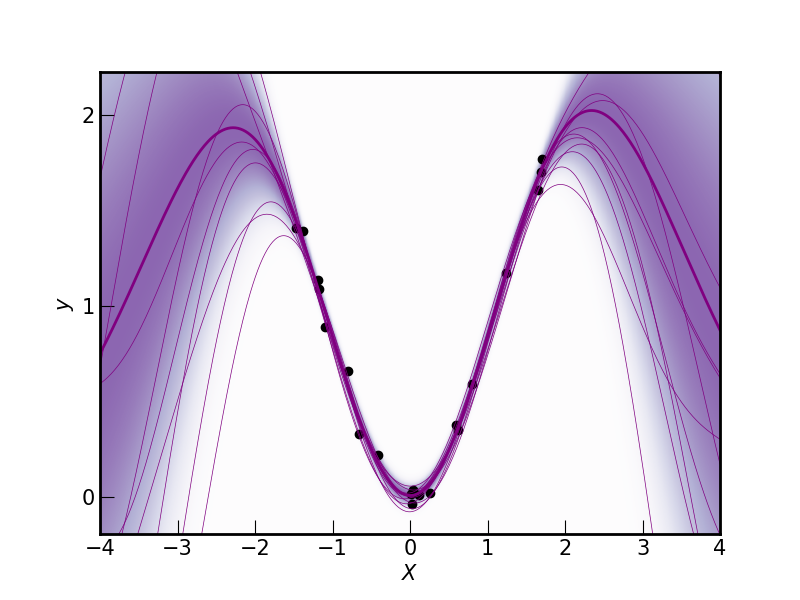
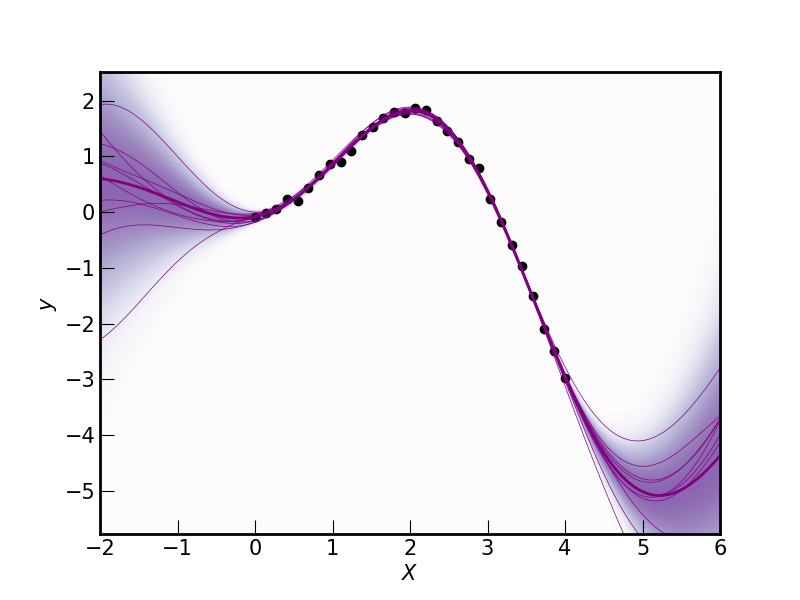
minor bug fixes

diff --git a/src/gpr/gaussian_process.py b/src/gpr/gaussian_process.py
@@ -1,18 +1,10 @@
-# import os
-# import sys
-
-# SCRIPT_DIR = os.path.abspath(__file__)
-# sys.path.append(os.path.dirname(SCRIPT_DIR))
-
 import numpy as np
 import scipy.optimize
 from numpy.random import randn
 import matplotlib.pyplot as plt
 from operator import itemgetter
-from src.utils_gpr.utils import data_from_func, save_fig
+from src.utils_gpr.utils import save_fig
 from matplotlib.ticker import MaxNLocator
-from src.kernels.rbf import RBFKernel
-from input.testfuncs_1d import f1
 from scipy.linalg import cho_solve, cholesky, solve_triangular
 
 
@@ -191,10 +183,11 @@ class GP:
         else:
             return loglik
 
-    def plot_samples(self, nsamples):
+    def plot_samples(self, nsamples, save_png=False):
         """
         Plot samples with GP Model
 
+        :param save_png:
         :param nsamples: number of samples
         :return: None
         """
@@ -202,9 +195,6 @@ class GP:
         noise = 0.1
 
         K = self.kernel(self.X_train)
-
-        # prior samples:
-        prior_samples = cholesky(K + self.alpha_ * np.eye(len(self.X_train))) @ randn(len(self.X_train), nsamples)
 
         # plot
         fig, ax = plt.subplots(1, 1, figsize=(8, 6))
@@ -215,14 +205,23 @@ class GP:
         ax.tick_params(direction="in", labelsize=15, length=10, width=0.8, colors='k')
         for edge in ["top", "bottom", "left", "right"]:
             ax.spines[edge].set_linewidth(2.0)
-        print(self.X_train)
-        print(self.y_train)
-        
-        plt.plot(self.X_train, self.y_train, "*")
-        plt.plot(self.X_train, prior_samples + noise * randn(self.n, nsamples), ".")
 
+        # Sort the data by the x-axis
+        sorted_indices = np.argsort(self.X_train)
+        X_train_sorted = self.X_train[sorted_indices]
+        y_train_sorted = np.array(self.y_train)[sorted_indices]
+        prior_samples = cholesky(K + self.alpha_ * np.eye(len(self.X_train))) @ randn(len(self.X_train), nsamples)
+        n = X_train_sorted.shape[0]
+        plt.plot(X_train_sorted, y_train_sorted, ".-", label="Training Data")
+        plt.plot(X_train_sorted, prior_samples + noise * randn(n, nsamples), ".-", alpha=0.3)
+        # plt.plot(X_train_sorted, prior_samples + self.alpha_ * randn(n, nsamples), ".-")
+        delta = (max(self.y_train)-min(self.y_train))/5.0
+        ax.set_ylim([min(self.y_train)-delta, max(self.y_train)+delta])
+
+        plt.legend()
         # save sample plots
-        save_fig("samples")
+        if save_png:
+            save_fig("samples")
 
     def plot_gp(self, X, mu, cov, post=False):
         delta = 1.96
@@ -257,40 +256,3 @@ class GP:
             save_fig("posterior")
         else:
             save_fig("prior")
-
-
-if __name__ == "__main__":
-
-    # fix random seed for reproducibility test
-    # np.random.seed(42)
-
-    # choose function
-    X_train, X_test, y_train = data_from_func(f=f1, N=20, M=500, xx=[-2.0, 2.0, -4.0, 4.0], noise=0.1)
-    # X_train, X_test, y_train = data_from_func(f=f6, N=500, M=500, xx=[0.0, 10.0, 0.0, 20.0], noise=0.1)
-
-    # choose kernel
-    kernel1 = RBFKernel(theta=[2.0, 100.0]) * PeriodicKernel(theta=[1.0, 1.0, 1.0])
-    kernel2 = LinearKernel(theta=[1.0, 1.0, 1.0])
-    kernel3 = RBFKernel(theta=[50.0, 50.0])
-    kernel4 = RBFKernel(theta=[0.1, 0.1])
-    kernel = kernel1 + kernel2 + kernel3 + kernel4
-    print(kernel)
-
-    # noise
-    eps = 0.1
-
-    # create GP model
-    model = GP(kernel=kernel, optimizer="fmin_l_bfgs_b", alpha_=eps ** 2, n_restarts_optimizer=2)
-
-    # fit
-    model.fit(X_train, y_train)
-
-    # predict
-    y_mean, y_cov = model.predict(X_test)
-
-    # plot prior
-    model.plot_gp(X=X_test, mu=np.zeros(len(X_test)), cov=model.kernel(X_test))
-    # plot posterior
-    model.plot_gp(X=X_test, mu=y_mean, cov=y_cov, post=True)
-    # plot samples
-    model.plot_samples(2)

diff --git a/examples/example_gpr.py b/examples/example_gpr.py
@@ -1,11 +1,15 @@
 from src.gpr.gaussian_process import GP
 from src.kernels.rbf import RBFKernel
+from src.kernels.linear import LinearKernel
+from src.kernels.periodic import PeriodicKernel
 from src.utils_gpr.utils import data_from_func
-from input.testfuncs_1d import f1
+from input.testfuncs_1d import (oscillatory_increasing_amplitude, sine_plus_linear, cubic_quadratic_polynomial,
+                                absolute_value, exponential_growth, high_frequency_sine)
 import numpy as np
 
 # choose function
-X_train, X_test, y_train = data_from_func(f=f1, N=20, M=500, xx=[-2.0, 2.0, -4.0, 4.0], noise=0.1)
+func = oscillatory_increasing_amplitude
+X_train, X_test, y_train = data_from_func(f=func, N=30, M=500, xx=[0.0, 4.0, -2.0, 6.0], noise=0.1)
 
 # choose kernel
 kernel = RBFKernel(theta=[1.0, 1.0])
@@ -14,7 +18,7 @@ kernel = RBFKernel(theta=[1.0, 1.0])
 eps = 0.1
 
 # create GP model
-model = GP(kernel=kernel, optimizer="fmin_l_bfgs_b", alpha_=eps ** 2, n_restarts_optimizer=2)
+model = GP(kernel=kernel, optimizer="fmin_l_bfgs_b", alpha_=eps ** 2, n_restarts_optimizer=5)
 
 # fit
 model.fit(X_train, y_train)
@@ -27,4 +31,4 @@ model.plot_gp(X=X_test, mu=np.zeros(len(X_test)), cov=model.kernel(X_test))
 # plot posterior
 model.plot_gp(X=X_test, mu=y_mean, cov=y_cov, post=True)
 # plot samples
-model.plot_samples(2)
+model.plot_samples(5, save_png=True)

diff --git a/src/kernels/kernel.py b/src/kernels/kernel.py
@@ -86,7 +86,7 @@ class Sum(Kernel):
             K2, K2_gradient = self.kernel2(X1, X2, eval_gradient=True)
             return K1 + K2, [*K1_gradient, *K2_gradient]
         else:
-            return self.kernel1(X1, X2) + self.kernel2(X1, X2).squeeze()
+            return self.kernel1(X1, X2).squeeze() + self.kernel2(X1, X2).squeeze()
 
     def __repr__(self):
         return "{0} + {1}".format(self.kernel1, self.kernel2)

diff --git a/src/utils_gpr/utils.py b/src/utils_gpr/utils.py
@@ -19,7 +19,7 @@ def data_from_func(f, N, M, xx, noise=0.1):
     xmin_tr, xmax_tr, xmin_te, xmax_te = xx
 
     # training data
-    X_train = np.array([np.random.rand() * (xmax_tr - xmin_tr) + xmin_tr for _ in range(N)])
+    X_train = np.linspace(xmin_tr, xmax_tr, N)
     y_train = [f(X_) + np.random.rand() * 2 * noise - noise for X_ in X_train]
 
     # testing data

diff --git a/src/kernels/periodic.py b/src/kernels/periodic.py
@@ -1,5 +1,5 @@
 import numpy as np
-from kernel import Kernel
+from src.kernels.kernel import Kernel
 
 
 class PeriodicKernel(Kernel):

diff --git a/src/kernels/linear.py b/src/kernels/linear.py
@@ -1,5 +1,5 @@
 import numpy as np
-from kernel import Kernel
+from src.kernels.kernel import Kernel
 
 
 class LinearKernel(Kernel):
